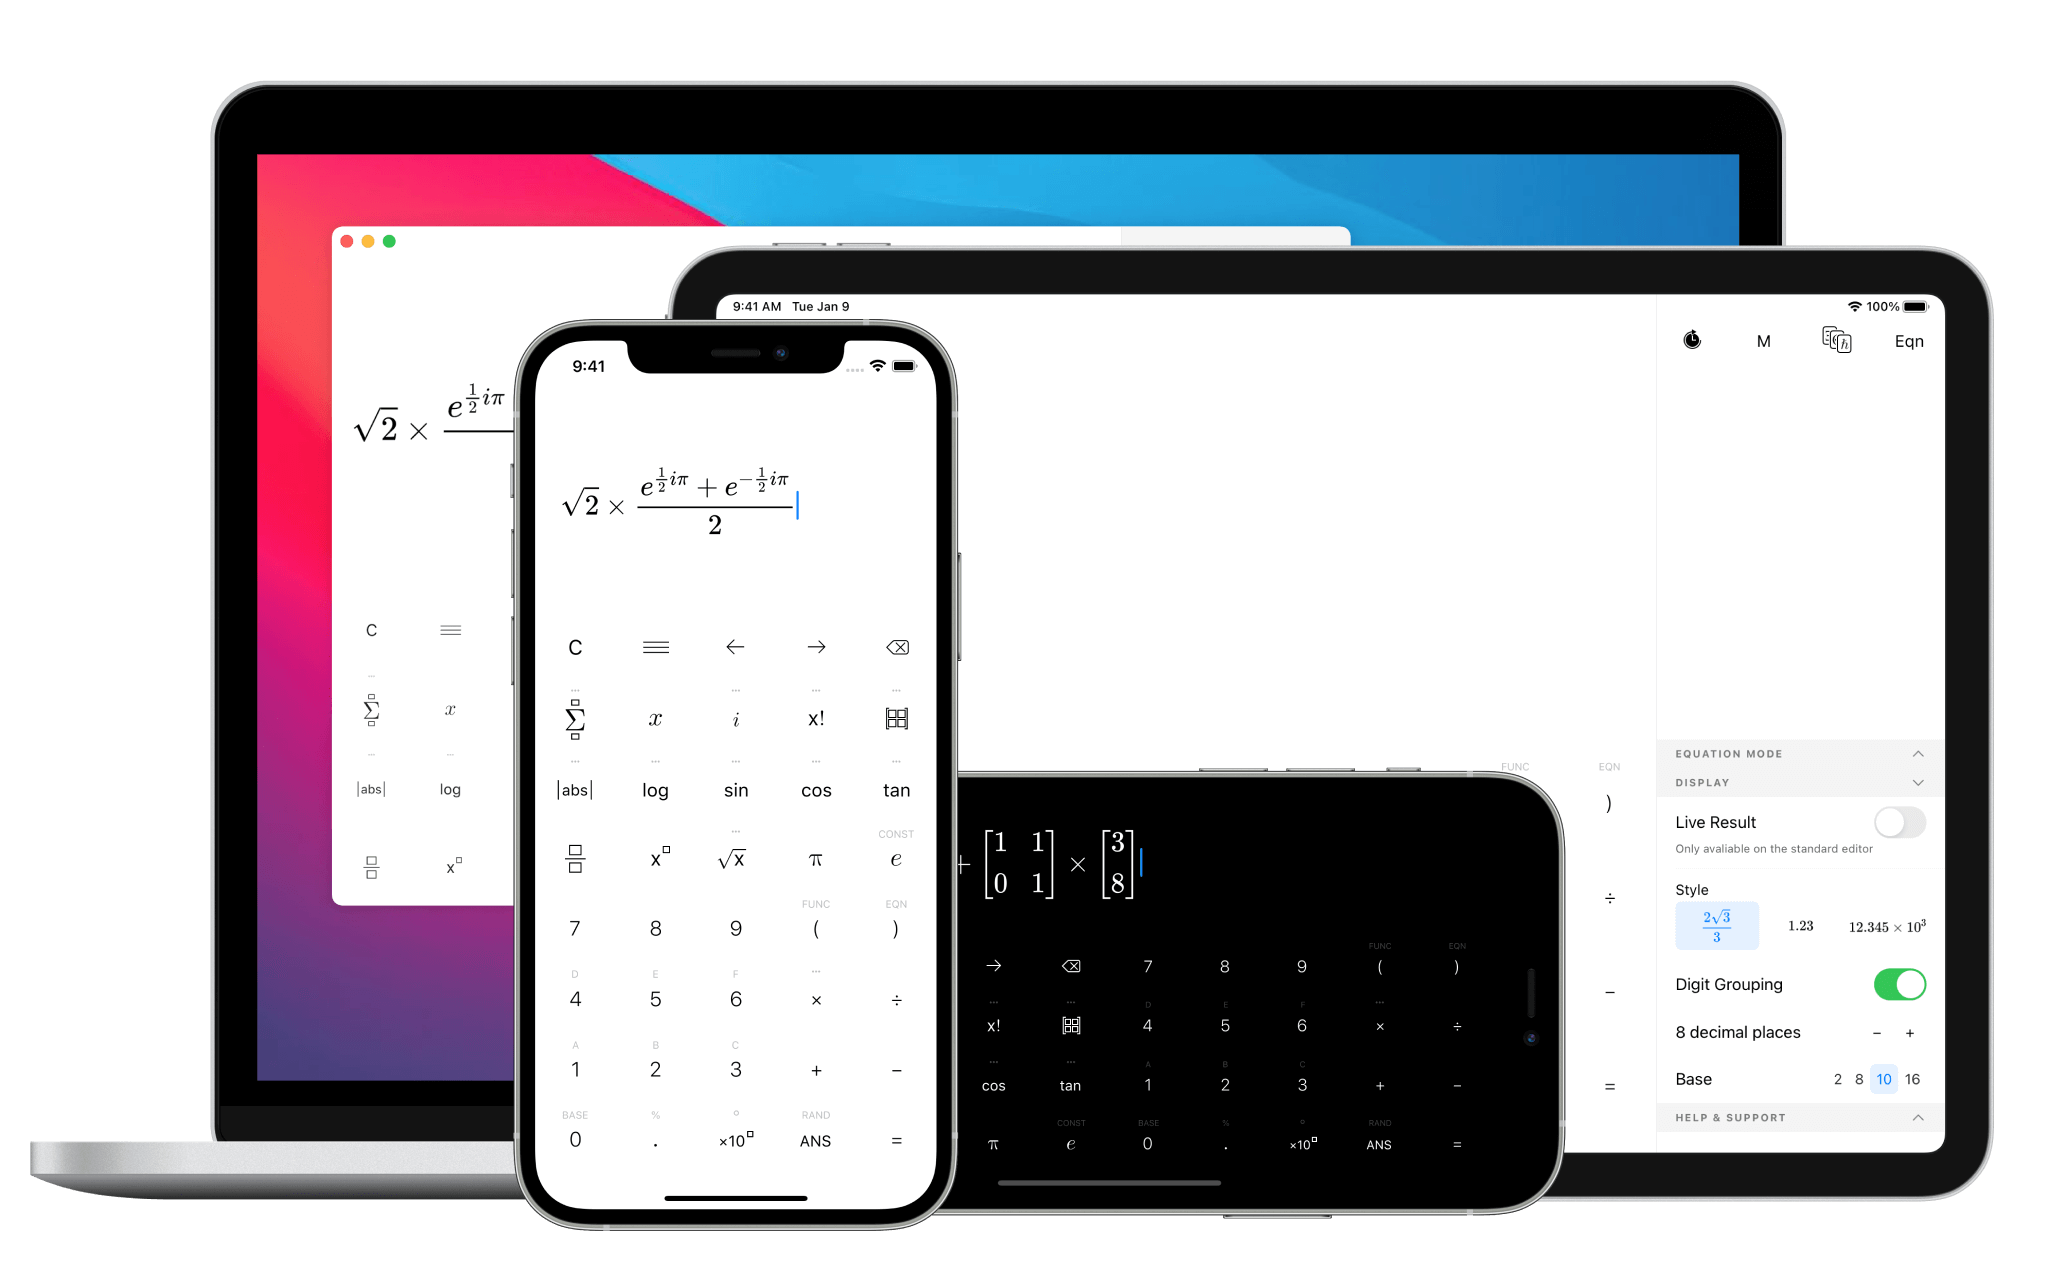
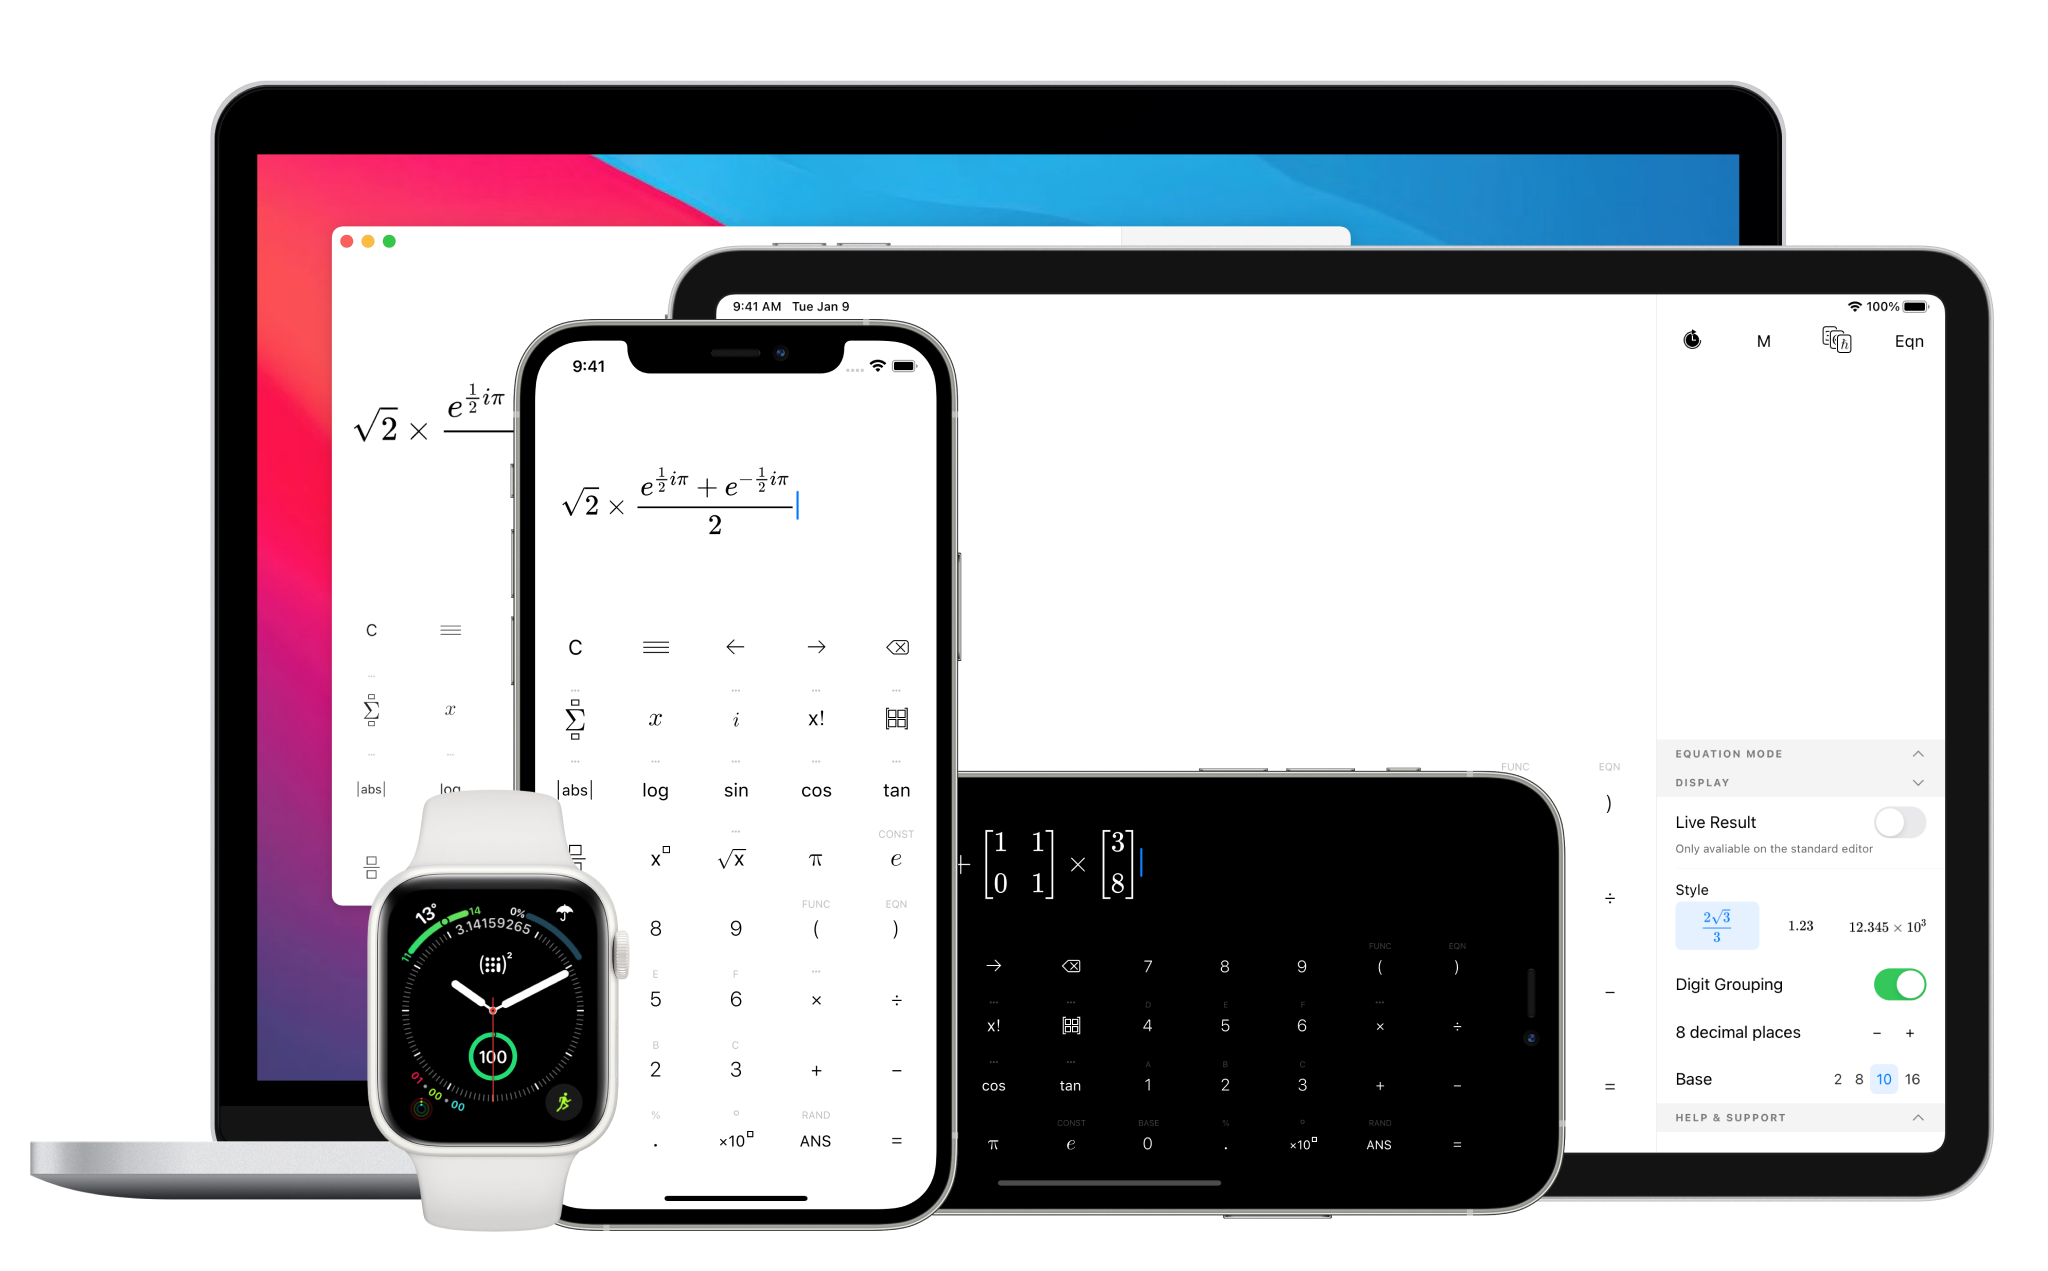
.

Changed region(s): [[0.1562, 0.6137, 0.3125, 0.9819]]

diff --git a/core/cacheAssetTransform.ts b/core/cacheAssetTransform.ts
@@ -30,7 +30,7 @@ export default function cacheAssetTransform<T>(fn: Fn<T>) {
       return cached;
     } else if (assetCache == null) {
       assetCache = new Map<string, any>();
-      fileAssetCache.set(src, assetCache);
+      fileAssetCache.set(assetFilename, assetCache);
     }
 
     const value = fn(content, src, ...unsafeRest);

diff --git a/assets/app.css b/assets/app.css
@@ -27,8 +27,7 @@ p {
   color: #636366;
 }
 
-em {
-  font: inherit;
+strong {
   --font-weight: 500;
   color: var(--primary);
 }

diff --git a/pages/piano-tabs.md b/pages/piano-tabs.md
@@ -16,11 +16,11 @@ primary: "var(--piano-tabs)"
 
 ## Open any song.
 
-Piano Tabs works with any MIDI file. They're the industry standard, and _super-easy_ to get hold of.
+Piano Tabs works with any MIDI file. They're the industry standard, and **super-easy** to get hold of.
 
-Pieces are displayed as you would play them on a keyboard, so there is _no learning curve_ to get started.
+Pieces are displayed as you would play them on a keyboard, so there is **no learning curve** to get started.
 
-Scroll through a piece for _interactive playback_ to help you either find or study a section.
+Scroll through a piece for **interactive playback** to help you either find or study a section.
 
 ---
 
@@ -30,7 +30,7 @@ Scroll through a piece for _interactive playback_ to help you either find or stu
 
 Looping lets you pick specific parts of the piece you want to practise. Just drag the top and bottom handles set the start and end of the loop.
 
-With a loop set up up, you can use the _speed trainer_ to have it start each loop playing slowly, and gradually speed up after each loop. Tweak how slow it starts, and how many loops it takes to reach the full tempo.
+With a loop set up up, you can use the **speed trainer** to have it start each loop playing slowly, and gradually speed up after each loop. Tweak how slow it starts, and how many loops it takes to reach the full tempo.
 
 </AppBlock>
 
@@ -42,7 +42,7 @@ With a loop set up up, you can use the _speed trainer_ to have it start each loo
 
 Bookmarks let you mark out sections within a piece. You can add as many as you need.
 
-Use your finger or Apple Pencil to _freehand draw anywhere_ in the piece to annotate.\*
+Use your finger or Apple Pencil to **freehand draw anywhere** in the piece to annotate.\*
 
 <p class="footnote">* iPad only</p>
 
@@ -54,9 +54,9 @@ Use your finger or Apple Pencil to _freehand draw anywhere_ in the piece to anno
 
 ## Customise every aspect of playback.
 
-View every track within a MIDI file, and _change the key and tempo_ to your liking.
+View every track within a MIDI file, and **change the key and tempo** to your liking.
 
-_Percussion tracks_ play along side the active track, or can be swapped out for a standard click _metronome_, or silenced entirely.
+**Percussion tracks** play along side the active track, or can be swapped out for a standard click **metronome**, or silenced entirely.
 
 </AppBlock>
 

diff --git a/pages/technicalc.md b/pages/technicalc.md
@@ -22,7 +22,7 @@ banner: "TechnicalcComputation"
 
 The modern interface that makes a clean break from traditional pocket calculators. Equations are entered in a natural way, adhering to every detail of hand-written maths.
 
-The _advanced maths engine_ also makes this the only calculator you'll ever need.
+The **advanced maths engine** also makes this the only calculator you'll ever need.
 
 You'll find your garden variety logs, sins, and cosines &mdash; but for when you need it, the engine has full support for imaginary numbers, vectors, matrices, sums and products, and differentiation and integration.
 
@@ -34,9 +34,9 @@ You'll find your garden variety logs, sins, and cosines &mdash; but for when you
 
 All the units you would expect are supported, and you can combine them infinitely.
 
-_Meters_ to _yards_? check.
+**Meters** to **yards**? check.
 
-_Kilogram-meters-per-second-squared_ to something else? Also check.
+**Kilogram-meters-per-second-squared** to something else? Also check.
 
 </AppBlock>
 
@@ -62,7 +62,7 @@ Even find a root for any given equation.
 
 With over 100 constants built in, no matter whether you're doing engineering, physics, or chemistry, you'll find every constant you need.
 
-If you don't find one? You can _add your own_ &mdash; and even give it your own symbol.
+If you don't find one? You can **add your own** &mdash; and even give it your own symbol.
 
 </AppBlock>
 
@@ -75,6 +75,18 @@ If you don't find one? You can _add your own_ &mdash; and even give it your own 
 Whether you struggle to remember your equations &mdash; or just struggle to type it in &mdash; you can add them all to memory.
 
 You can even add symbols to remind you what &mdash; and where &mdash; to fill in when you insert them.
+
+</AppBlock>
+
+---
+
+<AppBlock src="/assets/technicalc/preview-5.png" alt="iPad" imagePosition="center-contain">
+
+## All the power. From your wrist to the big screen.
+
+From showing you the most recent result on Apple Watch face &mdash; to **external keyboard support** &mdash; to making **full use of largers screen** on iPads and MacBooks, TechniCalc gets the best out of your hardware.
+
+With full support for **split screen** on iPad and **global shortcut** keys on macOS, TechniCalc gets the best out of your hardware's software too.
 
 </AppBlock>
 

diff --git a/pages/pocket-jam.md b/pages/pocket-jam.md
@@ -30,7 +30,7 @@ You no longer have to retune your instrument if a song is in a different tuning 
 
 When a song is too fast or slow, you can control that too. Change the tempo anywhere between half and double the original.
 
-All in _real time_.
+All in **real time**.
 
 </AppBlock>
 
@@ -42,7 +42,7 @@ All in _real time_.
 
 Looping lets you pick specific parts of the song you want to practise. Just drag the left and right handles on the play bar to set the start and end of the loop.
 
-With a loop set up up, you can use the _speed trainer_ to have it start each loop playing slowly, and gradually speed up after each loop. Tweak how slow it starts, and how many loops it takes to reach the full tempo.
+With a loop set up up, you can use the **speed trainer** to have it start each loop playing slowly, and gradually speed up after each loop. Tweak how slow it starts, and how many loops it takes to reach the full tempo.
 
 </AppBlock>
 
@@ -52,7 +52,7 @@ With a loop set up up, you can use the _speed trainer_ to have it start each loo
 
 ## Skip to the good bit.
 
-Set up _section markers_ in your song for the bits that are important to you.
+Set up **section markers** in your song for the bits that are important to you.
 
 Use them to jump to the section in playback, or to set up loops between sections faster.
 
